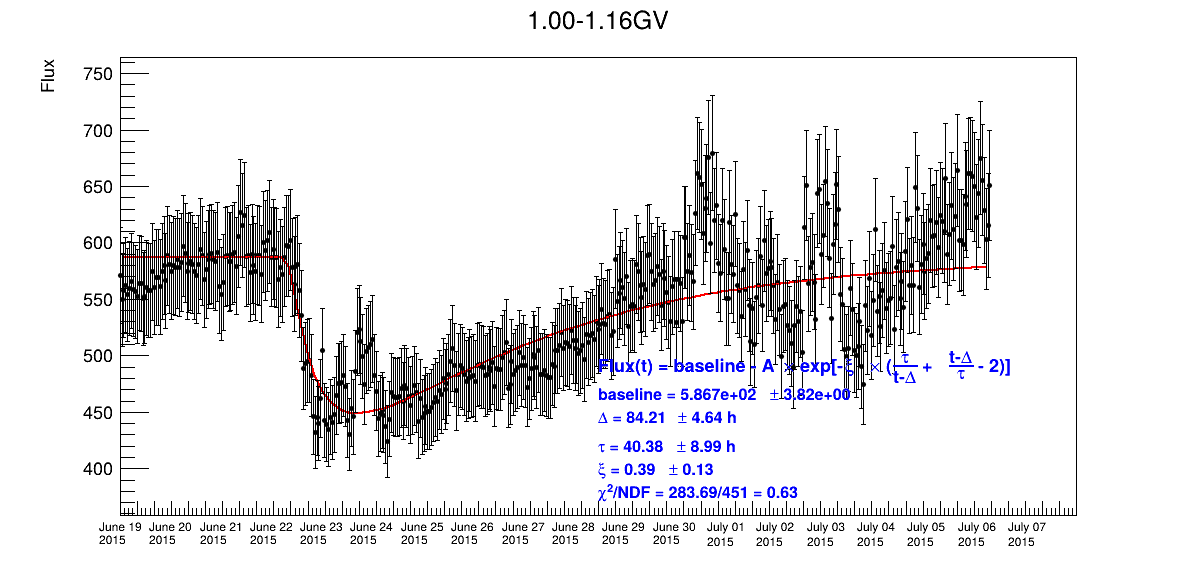
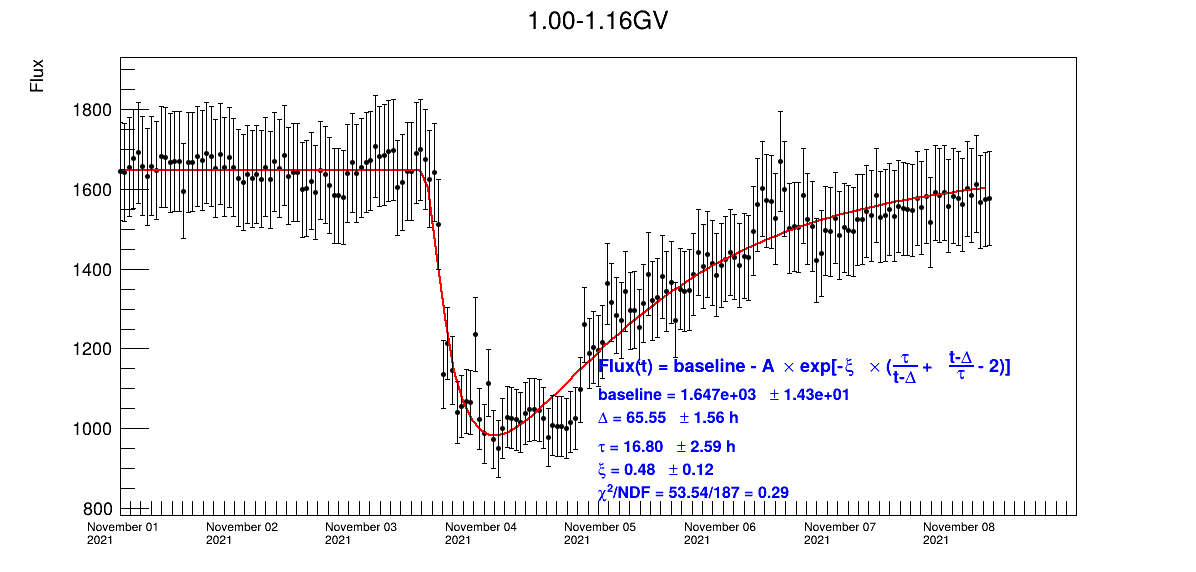
lag画图修改

diff --git a/data/correlation.py b/data/correlation.py
@@ -83,7 +83,7 @@ RIGIDITY_BINS = [
     "69.70-100.00GV"
 ]
 
-MAX_LAG_HOURS = 24*20  # 最大时间滞后
+MAX_LAG_HOURS = 24  # 最大时间滞后
 
 print("=" * 70)
 print("AMS-OMNI 相关性分析")
@@ -234,9 +234,14 @@ print(f"分析参数: {top_params}")
 target_rigidity = "5.37-5.90GV"
 ams_col = f"dI_{target_rigidity}"
 
-fig, axes = plt.subplots(1, len(top_params), figsize=(15, 4))
-if len(top_params) == 1:
-    axes = [axes]
+# 使用 2x3 子图布局；若参数不足 6，隐藏多余子图；超过 6 仅绘制前 6 个
+nrows, ncols = 2, 3
+max_panels = nrows * ncols
+if len(top_params) > max_panels:
+    top_params = top_params[:max_panels]
+
+fig, axes = plt.subplots(nrows, ncols, figsize=(16, 9))
+axes = np.array(axes).ravel()
 
 for idx, omni_param in enumerate(top_params):
     lags = []
@@ -272,6 +277,10 @@ for idx, omni_param in enumerate(top_params):
     axes[idx].set_title(f'{omni_param} vs {target_rigidity}', fontsize=12)
     axes[idx].legend(fontsize=9)
     axes[idx].grid(True, alpha=0.3)
+
+# 隐藏未使用的子图（当 top_params 少于 6 时）
+for k in range(len(top_params), max_panels):
+    axes[k].axis('off')
 
 plt.tight_layout()
 plt.savefig(f"{EVENT_DIR}/lag_correlation.png", dpi=300, bbox_inches='tight')

diff --git a/data/preprocess.py b/data/preprocess.py
@@ -21,8 +21,8 @@ AMS_PATH  = "ams/flux_long.csv"
 OMNI_PATH = "omni/omni2_2011_2025.csv"
 
 # ---------- 事件窗口 ----------
-t_start = pd.Timestamp("2015-06-19 00:00:00")
-t_end   = pd.Timestamp("2015-07-07 23:00:00")
+t_start = pd.Timestamp("2021-11-01 00:00:00")
+t_end   = pd.Timestamp("2021-11-08 23:00:00")
 PRE_HOURS = 48  # 基线缓冲时长
 
 # ---------- 创建输出文件夹 ----------
